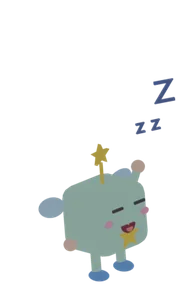
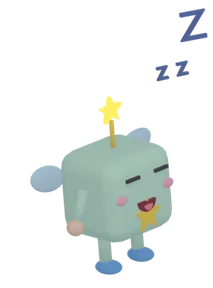
Task 4+5: mascot breathing idle (48 f) + two-arm wave; scene foreground layers {scene}_fg.webp
mascot: idle is now an animated loop (body bob, star twinkle, one blink), wave swings both arms with body sway, think/happy bigger; rendered ~20% larger (lower hop). Foreground layers for meadow sea sky road space room night island island_2 island_3 reef (RGBA, bottom ~20%). CLAUDE.md notes.

diff --git a/sw.js b/sw.js
@@ -1,4 +1,4 @@
-const VERSION='v57';
+const VERSION='v58';
 const CORE=["./", "index.html", "manifest.webmanifest", "assets/scenes/meadow.webp", "assets/scenes/night.webp", "assets/scenes/road.webp", "assets/scenes/room.webp", "assets/scenes/sea.webp", "assets/scenes/sky.webp", "assets/objects/chest_open_anim.webp", "assets/objects/chest_open.webp", "assets/objects/chest_closed.webp", "assets/scenes/island.webp", "assets/scenes/reef.webp", "assets/scenes/space.webp", "assets/letters/a_idle.webp", "assets/letters/a_jump.webp", "assets/letters/b_idle.webp", "assets/letters/b_jump.webp", "assets/letters/c_idle.webp", "assets/letters/c_jump.webp", "assets/letters/d_idle.webp", "assets/letters/d_jump.webp", "assets/letters/e_idle.webp", "assets/letters/e_jump.webp", "assets/letters/f_idle.webp", "assets/letters/f_jump.webp", "assets/letters/g_idle.webp", "assets/letters/g_jump.webp", "assets/letters/h_idle.webp", "assets/letters/h_jump.webp", "assets/letters/i_idle.webp", "assets/letters/i_jump.webp", "assets/letters/j_idle.webp", "assets/letters/j_jump.webp", "assets/letters/k_idle.webp", "assets/letters/k_jump.webp", "assets/letters/l_idle.webp", "assets/letters/l_jump.webp", "assets/letters/m_idle.webp", "assets/letters/m_jump.webp", "assets/letters/n_idle.webp", "assets/letters/n_jump.webp", "assets/letters/o_idle.webp", "assets/letters/o_jump.webp", "assets/letters/p_idle.webp", "assets/letters/p_jump.webp", "assets/letters/q_idle.webp", "assets/letters/q_jump.webp", "assets/letters/r_idle.webp", "assets/letters/r_jump.webp", "assets/letters/s_idle.webp", "assets/letters/s_jump.webp", "assets/letters/t_idle.webp", "assets/letters/t_jump.webp", "assets/letters/u_idle.webp", "assets/letters/u_jump.webp", "assets/letters/v_idle.webp", "assets/letters/v_jump.webp", "assets/letters/w_idle.webp", "assets/letters/w_jump.webp", "assets/letters/x_idle.webp", "assets/letters/x_jump.webp", "assets/letters/y_idle.webp", "assets/letters/y_jump.webp", "assets/letters/z_idle.webp", "assets/letters/z_jump.webp", "assets/num/n0_idle.webp", "assets/num/n10_idle.webp", "assets/num/n1_idle.webp", "assets/num/n1_jump.webp", "assets/num/n2_idle.webp", "assets/num/n2_jump.webp", "assets/num/n3_idle.webp", "assets/num/n3_jump.webp", "assets/num/n4_idle.webp", "assets/num/n4_jump.webp", "assets/num/n5_idle.webp", "assets/num/n5_jump.webp", "assets/num/n6_idle.webp", "assets/num/n6_jump.webp", "assets/num/n7_idle.webp", "assets/num/n7_jump.webp", "assets/num/n8_idle.webp", "assets/num/n8_jump.webp", "assets/num/n9_idle.webp", "assets/num/n9_jump.webp", "assets/num/nq_idle.webp", "assets/num/op_equals_bounce.webp", "assets/num/op_equals_idle.webp", "assets/num/op_times_bounce.webp", "assets/num/op_times_idle.webp", "assets/num/op_minus_bounce.webp", "assets/num/op_minus_idle.webp", "assets/num/op_plus_bounce.webp", "assets/num/op_plus_idle.webp", "assets/num/n0_jump.webp", "assets/num/n100_idle.webp", "assets/num/n10_jump.webp", "assets/num/n11_idle.webp", "assets/num/n11_jump.webp", "assets/num/n12_idle.webp", "assets/num/n12_jump.webp", "assets/num/n13_idle.webp", "assets/num/n13_jump.webp", "assets/num/n14_idle.webp", "assets/num/n14_jump.webp", "assets/num/n15_idle.webp", "assets/num/n15_jump.webp", "assets/num/n16_idle.webp", "assets/num/n16_jump.webp", "assets/num/n17_idle.webp", "assets/num/n17_jump.webp", "assets/num/n18_idle.webp", "assets/num/n18_jump.webp", "assets/num/n19_idle.webp", "assets/num/n19_jump.webp", "assets/num/n20_idle.webp", "assets/num/n20_jump.webp", "assets/num/n21_idle.webp", "assets/num/n22_idle.webp", "assets/num/n23_idle.webp", "assets/num/n24_idle.webp", "assets/num/n25_idle.webp", "assets/num/n26_idle.webp", "assets/num/n27_idle.webp", "assets/num/n28_idle.webp", "assets/num/n29_idle.webp", "assets/num/n30_idle.webp", "assets/num/n31_idle.webp", "assets/num/n32_idle.webp", "assets/num/n33_idle.webp", "assets/num/n34_idle.webp", "assets/num/n35_idle.webp", "assets/num/n36_idle.webp", "assets/num/n37_idle.webp", "assets/num/n38_idle.webp", "assets/num/n39_idle.webp", "assets/num/n40_idle.webp", "assets/num/n41_idle.webp", "assets/num/n42_idle.webp", "assets/num/n43_idle.webp", "assets/num/n44_idle.webp", "assets/num/n45_idle.webp", "assets/num/n46_idle.webp", "assets/num/n47_idle.webp", "assets/num/n48_idle.webp", "assets/num/n49_idle.webp", "assets/num/n50_idle.webp", "assets/num/n51_idle.webp", "assets/num/n52_idle.webp", "assets/num/n53_idle.webp", "assets/num/n54_idle.webp", "assets/num/n55_idle.webp", "assets/num/n56_idle.webp", "assets/num/n57_idle.webp", "assets/num/n58_idle.webp", "assets/num/n59_idle.webp", "assets/num/n60_idle.webp", "assets/num/n61_idle.webp", "assets/num/n62_idle.webp", "assets/num/n63_idle.webp", "assets/num/n64_idle.webp", "assets/num/n65_idle.webp", "assets/num/n66_idle.webp", "assets/num/n67_idle.webp", "assets/num/n68_idle.webp", "assets/num/n69_idle.webp", "assets/num/n70_idle.webp", "assets/num/n71_idle.webp", "assets/num/n72_idle.webp", "assets/num/n73_idle.webp", "assets/num/n74_idle.webp", "assets/num/n75_idle.webp", "assets/num/n76_idle.webp", "assets/num/n77_idle.webp", "assets/num/n78_idle.webp", "assets/num/n79_idle.webp", "assets/num/n80_idle.webp", "assets/num/n81_idle.webp", "assets/num/n82_idle.webp", "assets/num/n83_idle.webp", "assets/num/n84_idle.webp", "assets/num/n85_idle.webp", "assets/num/n86_idle.webp", "assets/num/n87_idle.webp", "assets/num/n88_idle.webp", "assets/num/n89_idle.webp", "assets/num/n90_idle.webp", "assets/num/n91_idle.webp", "assets/num/n92_idle.webp", "assets/num/n93_idle.webp", "assets/num/n94_idle.webp", "assets/num/n95_idle.webp", "assets/num/n96_idle.webp", "assets/num/n97_idle.webp", "assets/num/n98_idle.webp", "assets/num/n99_idle.webp", "assets/num/nq_jump.webp", "assets/audio/l_a.mp3", "assets/audio/l_b.mp3", "assets/audio/l_c.mp3", "assets/audio/l_d.mp3", "assets/audio/l_e.mp3", "assets/audio/l_f.mp3", "assets/audio/l_g.mp3", "assets/audio/l_h.mp3", "assets/audio/l_i.mp3", "assets/audio/l_j.mp3", "assets/audio/l_k.mp3", "assets/audio/l_l.mp3", "assets/audio/l_m.mp3", "assets/audio/l_n.mp3", "assets/audio/l_o.mp3", "assets/audio/l_p.mp3", "assets/audio/l_q.mp3", "assets/audio/l_r.mp3", "assets/audio/l_s.mp3", "assets/audio/l_t.mp3", "assets/audio/l_u.mp3", "assets/audio/l_v.mp3", "assets/audio/l_w.mp3", "assets/audio/l_x.mp3", "assets/audio/l_y.mp3", "assets/audio/l_z.mp3", "assets/audio/n_0.mp3", "assets/audio/n_1.mp3", "assets/audio/n_10.mp3", "assets/audio/n_100.mp3", "assets/audio/n_11.mp3", "assets/audio/n_12.mp3", "assets/audio/n_13.mp3", "assets/audio/n_14.mp3", "assets/audio/n_15.mp3", "assets/audio/n_16.mp3", "assets/audio/n_17.mp3", "assets/audio/n_18.mp3", "assets/audio/n_19.mp3", "assets/audio/n_2.mp3", "assets/audio/n_20.mp3", "assets/audio/n_21.mp3", "assets/audio/n_22.mp3", "assets/audio/n_23.mp3", "assets/audio/n_24.mp3", "assets/audio/n_25.mp3", "assets/audio/n_26.mp3", "assets/audio/n_27.mp3", "assets/audio/n_28.mp3", "assets/audio/n_29.mp3", "assets/audio/n_3.mp3", "assets/audio/n_30.mp3", "assets/audio/n_31.mp3", "assets/audio/n_32.mp3", "assets/audio/n_33.mp3", "assets/audio/n_34.mp3", "assets/audio/n_35.mp3", "assets/audio/n_36.mp3", "assets/audio/n_37.mp3", "assets/audio/n_38.mp3", "assets/audio/n_39.mp3", "assets/audio/n_4.mp3", "assets/audio/n_40.mp3", "assets/audio/n_41.mp3", "assets/audio/n_42.mp3", "assets/audio/n_43.mp3", "assets/audio/n_44.mp3", "assets/audio/n_45.mp3", "assets/audio/n_46.mp3", "assets/audio/n_47.mp3", "assets/audio/n_48.mp3", "assets/audio/n_49.mp3", "assets/audio/n_5.mp3", "assets/audio/n_50.mp3", "assets/audio/n_51.mp3", "assets/audio/n_52.mp3", "assets/audio/n_53.mp3", "assets/audio/n_54.mp3", "assets/audio/n_55.mp3", "assets/audio/n_56.mp3", "assets/audio/n_57.mp3", "assets/audio/n_58.mp3", "assets/audio/n_59.mp3", "assets/audio/n_6.mp3", "assets/audio/n_60.mp3", "assets/audio/n_61.mp3", "assets/audio/n_62.mp3", "assets/audio/n_63.mp3", "assets/audio/n_64.mp3", "assets/audio/n_65.mp3", "assets/audio/n_66.mp3", "assets/audio/n_67.mp3", "assets/audio/n_68.mp3", "assets/audio/n_69.mp3", "assets/audio/n_7.mp3", "assets/audio/n_70.mp3", "assets/audio/n_71.mp3", "assets/audio/n_72.mp3", "assets/audio/n_73.mp3", "assets/audio/n_74.mp3", "assets/audio/n_75.mp3", "assets/audio/n_76.mp3", "assets/audio/n_77.mp3", "assets/audio/n_78.mp3", "assets/audio/n_79.mp3", "assets/audio/n_8.mp3", "assets/audio/n_80.mp3", "assets/audio/n_81.mp3", "assets/audio/n_82.mp3", "assets/audio/n_83.mp3", "assets/audio/n_84.mp3", "assets/audio/n_85.mp3", "assets/audio/n_86.mp3", "assets/audio/n_87.mp3", "assets/audio/n_88.mp3", "assets/audio/n_89.mp3", "assets/audio/n_9.mp3", "assets/audio/n_90.mp3", "assets/audio/n_91.mp3", "assets/audio/n_92.mp3", "assets/audio/n_93.mp3", "assets/audio/n_94.mp3", "assets/audio/n_95.mp3", "assets/audio/n_96.mp3", "assets/audio/n_97.mp3", "assets/audio/n_98.mp3", "assets/audio/n_99.mp3", "assets/audio/p_allclear.mp3", "assets/audio/p_amazing.mp3", "assets/audio/p_greatjob.mp3", "assets/audio/p_hi.mp3", "assets/audio/p_is.mp3", "assets/audio/p_minus.mp3", "assets/audio/p_nicetry.mp3", "assets/audio/p_plus.mp3", "assets/audio/p_soundon.mp3", "assets/audio/p_times.mp3", "assets/audio/p_tryagain.mp3", "assets/audio/p_welcome.mp3", "assets/audio/x_0.mp3", "assets/audio/x_1.mp3", "assets/audio/x_10.mp3", "assets/audio/x_100.mp3", "assets/audio/x_11.mp3", "assets/audio/x_12.mp3", "assets/audio/x_13.mp3", "assets/audio/x_14.mp3", "assets/audio/x_15.mp3", "assets/audio/x_16.mp3", "assets/audio/x_17.mp3", "assets/audio/x_18.mp3", "assets/audio/x_19.mp3", "assets/audio/x_2.mp3", "assets/audio/x_20.mp3", "assets/audio/x_21.mp3", "assets/audio/x_22.mp3", "assets/audio/x_23.mp3", "assets/audio/x_24.mp3", "assets/audio/x_25.mp3", "assets/audio/x_26.mp3", "assets/audio/x_27.mp3", "assets/audio/x_28.mp3", "assets/audio/x_29.mp3", "assets/audio/x_3.mp3", "assets/audio/x_30.mp3", "assets/audio/x_31.mp3", "assets/audio/x_32.mp3", "assets/audio/x_33.mp3", "assets/audio/x_34.mp3", "assets/audio/x_35.mp3", "assets/audio/x_36.mp3", "assets/audio/x_37.mp3", "assets/audio/x_38.mp3", "assets/audio/x_39.mp3", "assets/audio/x_4.mp3", "assets/audio/x_40.mp3", "assets/audio/x_41.mp3", "assets/audio/x_42.mp3", "assets/audio/x_43.mp3", "assets/audio/x_44.mp3", "assets/audio/x_45.mp3", "assets/audio/x_46.mp3", "assets/audio/x_47.mp3", "assets/audio/x_48.mp3", "assets/audio/x_49.mp3", "assets/audio/x_5.mp3", "assets/audio/x_50.mp3", "assets/audio/x_51.mp3", "assets/audio/x_52.mp3", "assets/audio/x_53.mp3", "assets/audio/x_54.mp3", "assets/audio/x_55.mp3", "assets/audio/x_56.mp3", "assets/audio/x_57.mp3", "assets/audio/x_58.mp3", "assets/audio/x_59.mp3", "assets/audio/x_6.mp3", "assets/audio/x_60.mp3", "assets/audio/x_61.mp3", "assets/audio/x_62.mp3", "assets/audio/x_63.mp3", "assets/audio/x_64.mp3", "assets/audio/x_65.mp3", "assets/audio/x_66.mp3", "assets/audio/x_67.mp3", "assets/audio/x_68.mp3", "assets/audio/x_69.mp3", "assets/audio/x_7.mp3", "assets/audio/x_70.mp3", "assets/audio/x_71.mp3", "assets/audio/x_72.mp3", "assets/audio/x_73.mp3", "assets/audio/x_74.mp3", "assets/audio/x_75.mp3", "assets/audio/x_76.mp3", "assets/audio/x_77.mp3", "assets/audio/x_78.mp3", "assets/audio/x_79.mp3", "assets/audio/x_8.mp3", "assets/audio/x_80.mp3", "assets/audio/x_81.mp3", "assets/audio/x_82.mp3", "assets/audio/x_83.mp3", "assets/audio/x_84.mp3", "assets/audio/x_85.mp3", "assets/audio/x_86.mp3", "assets/audio/x_87.mp3", "assets/audio/x_88.mp3", "assets/audio/x_89.mp3", "assets/audio/x_9.mp3", "assets/audio/x_90.mp3", "assets/audio/x_91.mp3", "assets/audio/x_92.mp3", "assets/audio/x_93.mp3", "assets/audio/x_94.mp3", "assets/audio/x_95.mp3", "assets/audio/x_96.mp3", "assets/audio/x_97.mp3", "assets/audio/x_98.mp3", "assets/audio/x_99.mp3", "assets/icon2-192.png", "assets/icon2-512.png", "assets/audio/f_a.mp3", "assets/audio/f_b.mp3", "assets/audio/f_c.mp3", "assets/audio/f_d.mp3", "assets/audio/f_e.mp3", "assets/audio/f_f.mp3", "assets/audio/f_g.mp3", "assets/audio/f_h.mp3", "assets/audio/f_i.mp3", "assets/audio/f_j.mp3", "assets/audio/f_k.mp3", "assets/audio/f_l.mp3", "assets/audio/f_m.mp3", "assets/audio/f_n.mp3", "assets/audio/f_o.mp3", "assets/audio/f_p.mp3", "assets/audio/f_q.mp3", "assets/audio/f_r.mp3", "assets/audio/f_s.mp3", "assets/audio/f_t.mp3", "assets/audio/f_u.mp3", "assets/audio/f_v.mp3", "assets/audio/f_w.mp3", "assets/audio/f_x.mp3", "assets/audio/f_y.mp3", "assets/audio/f_z.mp3", "assets/audio/p_combo3.mp3", "assets/audio/p_combo5.mp3", "assets/audio/p_combo8.mp3", "assets/letters_upper/A_idle.webp", "assets/letters_upper/A_jump.webp", "assets/letters_upper/B_idle.webp", "assets/letters_upper/B_jump.webp", "assets/letters_upper/C_idle.webp", "assets/letters_upper/C_jump.webp", "assets/letters_upper/D_idle.webp", "assets/letters_upper/D_jump.webp", "assets/letters_upper/E_idle.webp", "assets/letters_upper/E_jump.webp", "assets/letters_upper/F_idle.webp", "assets/letters_upper/F_jump.webp", "assets/letters_upper/G_idle.webp", "assets/letters_upper/G_jump.webp", "assets/letters_upper/H_idle.webp", "assets/letters_upper/H_jump.webp", "assets/letters_upper/I_idle.webp", "assets/letters_upper/I_jump.webp", "assets/letters_upper/J_idle.webp", "assets/letters_upper/J_jump.webp", "assets/letters_upper/K_idle.webp", "assets/letters_upper/K_jump.webp", "assets/letters_upper/L_idle.webp", "assets/letters_upper/L_jump.webp", "assets/letters_upper/M_idle.webp", "assets/letters_upper/M_jump.webp", "assets/letters_upper/N_idle.webp", "assets/letters_upper/N_jump.webp", "assets/letters_upper/O_idle.webp", "assets/letters_upper/O_jump.webp", "assets/letters_upper/P_idle.webp", "assets/letters_upper/P_jump.webp", "assets/letters_upper/Q_idle.webp", "assets/letters_upper/Q_jump.webp", "assets/letters_upper/R_idle.webp", "assets/letters_upper/R_jump.webp", "assets/letters_upper/S_idle.webp", "assets/letters_upper/S_jump.webp", "assets/letters_upper/T_idle.webp", "assets/letters_upper/T_jump.webp", "assets/letters_upper/U_idle.webp", "assets/letters_upper/U_jump.webp", "assets/letters_upper/V_idle.webp", "assets/letters_upper/V_jump.webp", "assets/letters_upper/W_idle.webp", "assets/letters_upper/W_jump.webp", "assets/letters_upper/X_idle.webp", "assets/letters_upper/X_jump.webp", "assets/letters_upper/Y_idle.webp", "assets/letters_upper/Y_jump.webp", "assets/letters_upper/Z_idle.webp", "assets/letters_upper/Z_jump.webp", "assets/mascot/mascot_cheer.webp", "assets/mascot/mascot_happy.webp", "assets/mascot/mascot_idle.webp", "assets/mascot/mascot_sleep.webp", "assets/mascot/mascot_think.webp", "assets/mascot/mascot_wave.webp", "assets/garden/bee_idle.webp", "assets/garden/bee_move.webp", "assets/garden/blossom_idle.webp", "assets/garden/blossom_s1.webp", "assets/garden/blossom_s2.webp", "assets/garden/blossom_s3.webp", "assets/garden/bunny_idle.webp", "assets/garden/bunny_move.webp", "assets/garden/butterfly_idle.webp", "assets/garden/butterfly_move.webp", "assets/garden/cactus_idle.webp", "assets/garden/cactus_s1.webp", "assets/garden/cactus_s2.webp", "assets/garden/cactus_s3.webp", "assets/garden/clover_idle.webp", "assets/garden/clover_s1.webp", "assets/garden/clover_s2.webp", "assets/garden/clover_s3.webp", "assets/garden/daisy_idle.webp", "assets/garden/daisy_s1.webp", "assets/garden/daisy_s2.webp", "assets/garden/daisy_s3.webp", "assets/garden/frog_idle.webp", "assets/garden/hedgehog_idle.webp", "assets/garden/hibiscus_idle.webp", "assets/garden/hibiscus_s1.webp", "assets/garden/hibiscus_s2.webp", "assets/garden/hibiscus_s3.webp", "assets/garden/ladybug_idle.webp", "assets/garden/ladybug_move.webp", "assets/garden/mushroom_idle.webp", "assets/garden/mushroom_s1.webp", "assets/garden/mushroom_s2.webp", "assets/garden/mushroom_s3.webp", "assets/garden/palm_idle.webp", "assets/garden/palm_s1.webp", "assets/garden/palm_s2.webp", "assets/garden/palm_s3.webp", "assets/garden/parrot_idle.webp", "assets/garden/peacock_idle.webp", "assets/garden/rainbow_idle.webp", "assets/garden/rose_idle.webp", "assets/garden/rose_s1.webp", "assets/garden/rose_s2.webp", "assets/garden/rose_s3.webp", "assets/garden/snail_idle.webp", "assets/garden/snail_move.webp", "assets/garden/sprout_idle.webp", "assets/garden/sunflower_idle.webp", "assets/garden/sunflower_s1.webp", "assets/garden/sunflower_s2.webp", "assets/garden/sunflower_s3.webp", "assets/garden/tree_idle.webp", "assets/garden/tree_s1.webp", "assets/garden/tree_s2.webp", "assets/garden/tree_s3.webp", "assets/garden/tulip_idle.webp", "assets/garden/tulip_s1.webp", "assets/garden/tulip_s2.webp", "assets/garden/tulip_s3.webp", "assets/garden/turtle_idle.webp", "assets/garden/turtle_move.webp", "assets/garden/watermelon_idle.webp", "assets/garden/watermelon_s1.webp", "assets/garden/watermelon_s2.webp", "assets/garden/watermelon_s3.webp", "assets/objects/acorn_idle.webp", "assets/objects/acorn_jump.webp", "assets/objects/apple_idle.webp", "assets/objects/apple_jump.webp", "assets/objects/ball_idle.webp", "assets/objects/ball_jump.webp", "assets/objects/balloon_idle.webp", "assets/objects/balloon_jump.webp", "assets/objects/car_idle.webp", "assets/objects/car_jump.webp", "assets/objects/chick_idle.webp", "assets/objects/chick_jump.webp", "assets/objects/cookie_idle.webp", "assets/objects/cookie_jump.webp", "assets/objects/crayon_idle.webp", "assets/objects/crayon_jump.webp", "assets/objects/crown_idle.webp", "assets/objects/crown_jump.webp", "assets/objects/cupcake_idle.webp", "assets/objects/cupcake_jump.webp", "assets/objects/donut_idle.webp", "assets/objects/donut_jump.webp", "assets/objects/drum_idle.webp", "assets/objects/drum_jump.webp", "assets/objects/feather_idle.webp", "assets/objects/feather_jump.webp", "assets/objects/fish_idle.webp", "assets/objects/fish_jump.webp", "assets/objects/flower_idle.webp", "assets/objects/flower_jump.webp", "assets/objects/gem_idle.webp", "assets/objects/gem_jump.webp", "assets/objects/icecream_idle.webp", "assets/objects/icecream_jump.webp", "assets/objects/kite_idle.webp", "assets/objects/kite_jump.webp", "assets/objects/lollipop_idle.webp", "assets/objects/lollipop_jump.webp", "assets/objects/medal_idle.webp", "assets/objects/medal_jump.webp", "assets/objects/pencil_idle.webp", "assets/objects/pencil_jump.webp", "assets/objects/pinecone_idle.webp", "assets/objects/pinecone_jump.webp", "assets/objects/pretzel_idle.webp", "assets/objects/pretzel_jump.webp", "assets/objects/seashell_idle.webp", "assets/objects/seashell_jump.webp", "assets/objects/shell_idle.webp", "assets/objects/shell_jump.webp", "assets/objects/star_idle.webp", "assets/objects/star_jump.webp", "assets/objects/strawberry_idle.webp", "assets/objects/strawberry_jump.webp", "assets/objects/teddy_idle.webp", "assets/objects/teddy_jump.webp", "assets/objects/trophy_idle.webp", "assets/objects/trophy_jump.webp", "assets/bosses/meadow_idle.webp", "assets/bosses/meadow_sleep.webp", "assets/bosses/night_idle.webp", "assets/bosses/night_sleep.webp", "assets/bosses/road_idle.webp", "assets/bosses/road_sleep.webp", "assets/bosses/room_idle.webp", "assets/bosses/room_sleep.webp", "assets/bosses/sea_idle.webp", "assets/bosses/sea_sleep.webp", "assets/bosses/sky_idle.webp", "assets/bosses/sky_sleep.webp", "assets/bosses/space_idle.webp", "assets/bosses/space_sleep.webp"];
 self.addEventListener('install',e=>{e.waitUntil((async()=>{const c=await caches.open(VERSION);await Promise.allSettled(CORE.map(u=>c.add(u)));})());});
 self.addEventListener('message',e=>{if(e.data&&e.data.type==='SKIP_WAITING')self.skipWaiting();});

diff --git a/CLAUDE.md b/CLAUDE.md
@@ -44,6 +44,10 @@ Everything is one static page: `index.html` + `sw.js` + `manifest.webmanifest` +
 - Sea collection (also in `assets/dino/`): 16 sea creatures `{name}_idle/_swim_###/_happy_###` (clownfish seahorse jellyfish starfish turtle octopus crab dolphin whale shark pufferfish lobster seal penguin narwhal manta), egg `seaegg_s0..s3` + `seaegg_hatch_###`, scene `reef`.
   Toddler mode (`assets/objects/`): shapes circle square triangle star heart and colours red blue yellow green orange purple pink black white, `_idle` + `_jump` (12f).
   Island levels `island_2/3`, Christmas `{scene}_xmas`, `mascot_xmas_idle/_wave`, `objects/hat_santa.png`.
+- **Asset refresh (Nov 2026)**: `wb.py` action curves were enlarged (drive 12 cm bounce ±6°, wiggle ±22° + 10% pulse, fly/swim/float bigger; animals with `legs` handles trot). `mascot_idle.webp` is now a 48-frame breathing loop (blink once per loop); mascot_wave uses both arms.
+  Scene foreground layers `assets/scenes/{scene}_fg.webp` (RGBA, props in the bottom ~20%) exist for the 7 worlds + island/island_2/island_3/reef; draw them above the characters.
+  Numbers: `python tools/align_num.py <png folders> [--out assets/num]` re-crops every n0–n100/nq with one rule (5% pad under the idle feet, 35% headroom) so sizes and feet rows match; re-run it whenever a number is re-rendered.
+  `tools/review_sheets.py` builds contact sheets + metrics into `tools/review/`.
 - Scenes: 1200×750 opaque, bottom quarter is ground, nothing busy in the centre: meadow sea sky road space room night.
 
 ## Converting & publishing new art
